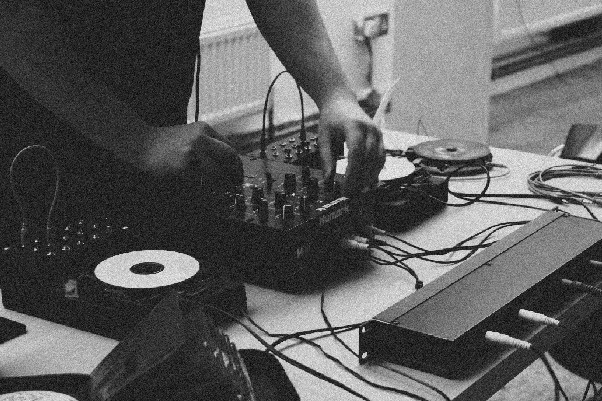
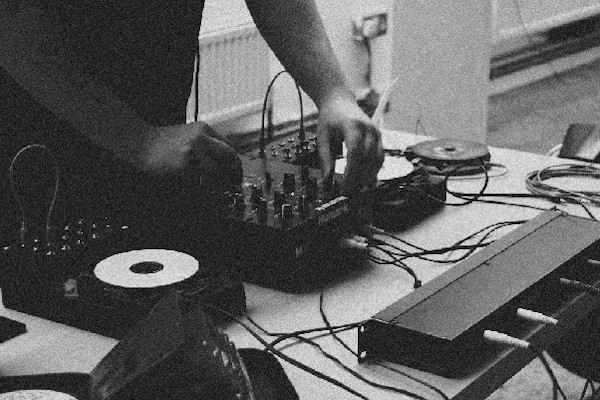
updated layout and content

diff --git a/gigs.md b/gigs.md
@@ -3,21 +3,24 @@ layout: page
 title: gigs
 permalink: /gigs/
 ---
-
-![Black and white photo of Glitch Turntablism gig](/media/images/gigs.jpg)
+<img
+  sizes="(min-width: 40em) 600px, 90vw"
+  srcset="/media/images/gigs_new_200.jpg 200w,
+          /media/images/gigs_new_400.jpg 400w,
+          /media/images/gigs_new.jpg 600w"
+  alt="Black and white photo of Glitch Turntablism gig">
 
 | When | Where | What |
 | --- | --- | --- |
-|   |   |   |   |
 |10.06.21 19:00 | [City, Summer Sounds Livestream](https://www.youtube.com/watch?v=6uZCgnhdr7g){:target="_blank"} | Man in Regent Street |
 |22.04.21 17:30 | [Beast Feast 2021 Livestream](http://www.beast.bham.ac.uk/beast-feast-2021/thursday-22-april/){:target="_blank"} | Wallpaper |
-|_    |_    |_   |
+|_______    |_______    |_______   |
 |29.07.20 20:00 | [Noise Quest Livestream](https://www.youtube.com/watch?v=7snxSxc_zwQ){:target="_blank"} | Glitch Turntablism |
 |~~08.09.20~~ ~~17:00~~ | ~~RMA @ Goldsmiths University, London~~ | ~~Bluetooth Disruptions~~ |
 |~~25.04.20~~ ~~18:00~~ | ~~Sonorities @ Accidental Theatre, Belfast~~ | ~~Glitch Turntablism~~ |
 |14.03.20 19:30 | [Sounds Like THIS, Leeds](https://www.soundslikethis.co.uk/listings/2020/3/14/territorial-gobbing-jonathan-higgins-psychiceyeclix-naomi-perera){:target="_blank"} | Glitch Turntablism |
 |29.01.20 20:00 | [Safehouse @ The Verdict, Brighton](https://www.facebook.com/events/2443844109218319/){:target="_blank"} | Glitch Turntablism |
-|_   |_    |_    |
+|_______   |_______    |_______    |
 |28.09.19 20:00 | [Steep 16 @ The Intimate Space, London](https://www.facebook.com/events/2133113970126911/){:target="_blank"} | Glitch Turntablism |
 |24.08.19 19:30 | [Constructions 2 @ TACO, London](https://www.facebook.com/events/2489229688030282/){:target="_blank"} | Glitch Turntablism |
 |07.08.19 19:00 | [Sonic Electronics @ The Others, London](https://www.facebook.com/events/503926683345784/){:target="_blank"}  | Glitch Turntablism |
@@ -29,7 +32,7 @@ permalink: /gigs/
 |10.02.19 15:00 | [Splitting the Atom @ The Green Door Store, Brighton](https://www.facebook.com/events/2256869507902320/){:target="_blank"} | Glitch Turntablism|
 |07.02.19 18:00 | [Photography Late @ Jewish Museum, London](https://jewishmuseum.org.uk/event/photography-late/){:target="_blank"} | Glitch Turntablism |
 |12.01.19 13:30 | [BFE/RMA Research Students Conference, The University of Sheffield](https://www.sheffield.ac.uk/music/research/conferences/bfe_2019){:target="_blank"} | Akai 4000D |
-|_   |_   |_   |
+|_______   |_______   |_______   |
 |28.07.18 18:00| [Sonic Experiences @ Guest Projects, London](https://www.facebook.com/events/1862907810470875/){:target="_blank"} | Glitch Turntablism |
 |21.07.18 08.08.18 | [Installation @ Guest Projects, London](https://www.lawayakacurrent.com/infoww){:target="_blank"} | Dada, Gabsus|
 |07.07.18 19.08.18 | [Installation @ Blue Mountain Cultural Centre, Australia](http://bluemountainsculturalcentre.com.au/event/kevina-jo-smith-never-give/){:target="_blank"} | Never Give Up |
@@ -38,4 +41,26 @@ permalink: /gigs/
 |17.04.18 | [Listening Room @ Sonorities, Belfast](http://sonorities.org.uk/wp-content/uploads/2018/04/2_Sonorities2018_OnlineBrochure_Small.pdf){:target="_blank"} | Seethe |
 |05.04.18 20:00| [CUEE @ Iklectik, London](https://www.city.ac.uk/events/2018/april/cuee-at-iklectik){:target="_blank"} | Glitch Turntablism |
 |02.02.18 19:00| [Sonic Exchange @ Greenwich University, London](https://www.city.ac.uk/events/2018/february/sonic-exchange-loudspeaker-orchestra){:target="_blank"} | Akai 4000D |
-|_   |_   |_   |
+|_______   |_______   |_______   |
+|09.10.17 19:00| [2021 Concerts @ Pushkin House, London](https://www.facebook.com/events/1513240338732969/){:target="_blank"} | Requiem|
+|12.08.17 20:00| [Tête à Tête @ RADA Studio Theatre, London](https://www.tete-a-tete.org.uk/event/schutzwall/){:target="_blank"} | Schutzwall |
+|29.07.17 20:00| [Manchester Opera Project @ The Engine House, Manchester](https://www.manchesteroperaproject.co.uk/read){:target="_blank"} | Schutzwall|
+|02.05.17 19:30| [Noizmachin @Amersham Arms, London](https://www.facebook.com/events/214985022322356/){:target="_blank"} | Chain Pier |
+|02.05.17 14:30| [Noise Floor @ Staffordshire University, Staffordshire](https://noisefloor.org.uk/concert-schedule/){:target="_blank"} | Fractured |
+|18.03.17 19:30| [Sounds Like THIS, Leeds](https://www.electropresence.com/en/even/37329/Sounds_Like_This_2017_Theatre_in_Surround){:target="_blank"} | City of Falling Angels|
+|07.03.17 19:30| [Rough for Opera @ The Cockpit Theatre, London](https://www.facebook.com/events/162049477626257/){:target="_blank"} | Schutzwall|
+|24.02.17 20:00| [Edison Ensemble @ Netherhall House, London](https://www.facebook.com/events/1839365342986191/){:target="_blank"} | Matryoshka|
+|_______   |_______   |_______   |
+|29.11.16 31.03.17| [Viseu Rural 2.0 Exhibition @ Casa da Ribeira, Portugal](https://binauralmedia.org/news/en/arquivo/9916){:target="_blank"} | Disinter |
+|25.11.16 19:30| [Sound Junction @ Firth Hall, Sheffield](https://www.sheffield.ac.uk/usss/soundjunction/1.567780){:target="_blank"} |City of Falling Angels|
+|19.11.16 12:45| [Sines and Squares @ The University of Manchester, Manchester](https://acusmatica.org/sinessquares_FREE/ssq16/programme.html){:target="_blank"} | Torpor |
+|13.09.16 12:30| [International Computer Music Conference, Uterecht](https://web.archive.org/web/20170927232009/https://www.openconf.org/icmc2016/music/modules/request.php?module=oc_program&action=program.php&p=program){:target="_blank"} | Stratum |
+|13.05.16 19:30| [Sound Junction @ Firth Hall, Sheffield](https://www.sheffield.ac.uk/usss/soundjunction/1.567778){:target="_blank"} | Stratum|
+|10.03.16 13:00| iFIMPaC, Leeds | Digital Spaces |
+|20.02.16 19:00| [Edison Ensemble @ Schott Recital Room, London](https://www.facebook.com/events/1703051699928233/){:target="_blank"} | Matryoshka|
+|_______   |_______   |_______   |
+|01.11.15 13:00| [Sound Junction @ Firth Hall, Sheffield](https://www.facebook.com/events/1053919531307178/){:target="_blank"} | AMS |
+|24.10.15 19:00| Present Tense @ Upper Chapel, Sheffield | 	Matryoshka|
+|28.09.15 22:30| [International Computer Music Conference, Texas](https://web.archive.org/web/20150908121034/http://icmc2015.unt.edu/program){:target="_blank"} | Inaudible Soundscapes|
+|17.07.15 31.07.15| [Exhibition @ 35 Chapel Walk, Sheffield](https://www.facebook.com/events/427716387408032/){:target="_blank"} | Digital Spaces|
+|21.05.15 17:00| [Firth Hall, Sheffield](https://www.facebook.com/events/1397531187241237/){:target="_blank"} |	Matryoshka|
